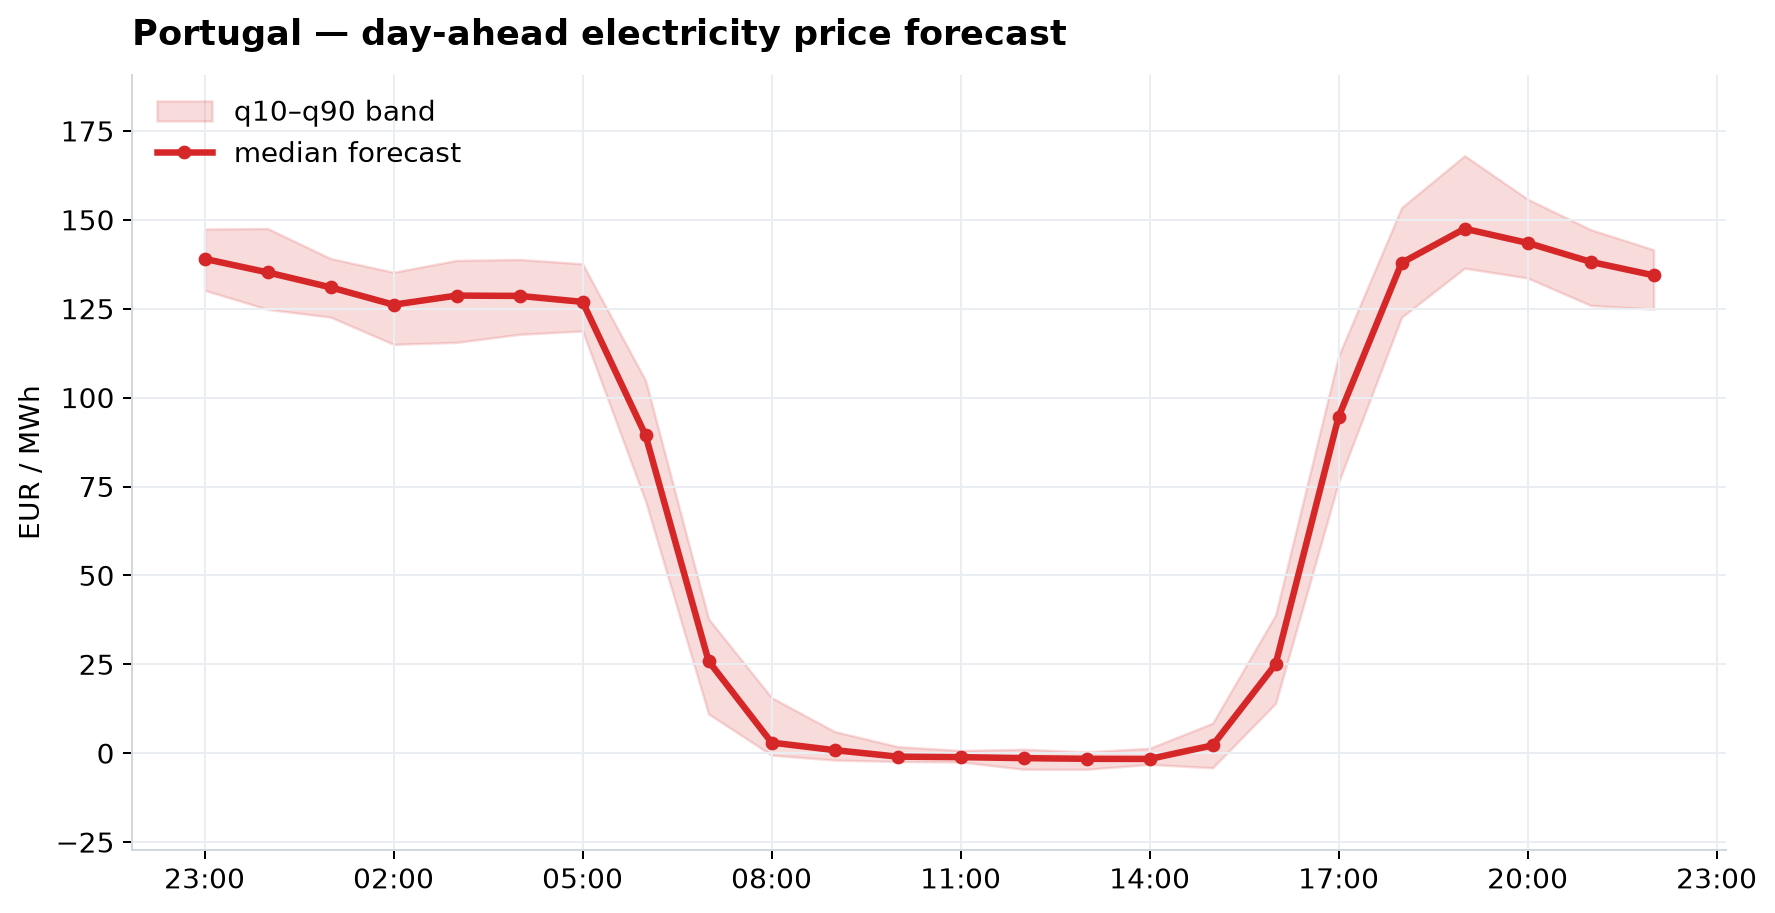
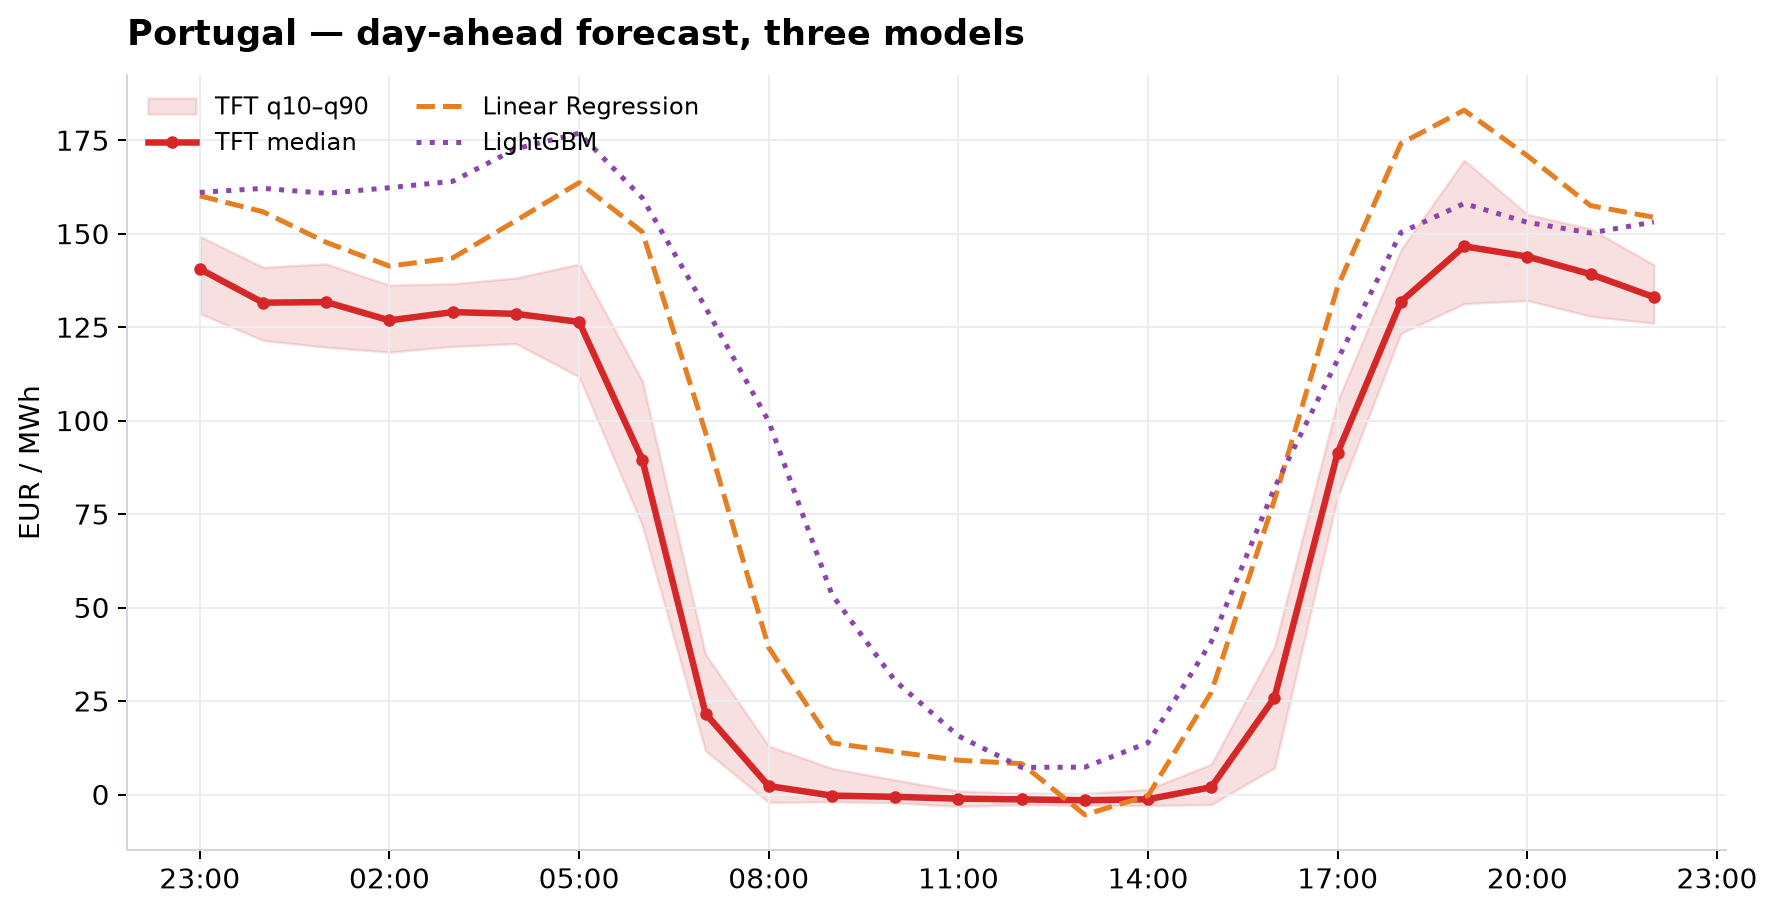
docs: docker section fixes, plot regen with multi-model overlay
- README: compose profiles documented correctly (--profile serve), pinball
  + coverage in the features bullet, /compare model param, covariate note
- docs/plots: per-country three-model overlays (TFT band, LR, LightGBM)
  + all-countries chart, matching the dashboard styling
- .dockerignore: models/, reports/, data/, lightning_logs/ excluded from
  the image (volumes provide them at runtime; 1.3GB off the context)
- docker compose serve profile verified end-to-end: api + dashboard
  containers, all three countries, lr/lgbm/tft forecasts in-container

diff --git a/README.md b/README.md
@@ -31,7 +31,7 @@ Supported out of the box (config-driven — add more in `src/config.py`):
 - **Config-driven countries:** Add a bidding zone by adding one entry to `src/config.py`.
 - **Automated data pipelines:** Fetches live data from the **Energy-Charts API** (EPEX SPOT / ENTSO-E transparency aggregator) and **Open-Meteo**. **No API keys required.**
 - **Deep sequence modeling:** Temporal Fusion Transformer via `darts` + PyTorch, with quantile outputs (10/50/90).
-- **Walk-forward backtesting:** One shared harness (`src/evaluation/backtest.py`) scores every model — naive persistence, Linear Regression, LightGBM, TFT — on identical splits, covariates, and a day-ahead protocol, with MAE/RMSE/rMAE.
+- **Walk-forward backtesting:** One shared harness (`src/evaluation/backtest.py`) scores every model — naive persistence, Linear Regression, LightGBM, TFT — on identical splits, covariates, and a day-ahead protocol, with MAE/RMSE/rMAE plus pinball loss and coverage for the quantile bands.
 - **FastAPI backend:** REST endpoints for single-country forecasts, cross-country comparison, per-country metrics, and price summaries.
 - **Interactive dashboard (Streamlit + Plotly):** forecasts auto-load on open; country + model selection (TFT bands, Linear Regression, LightGBM); hover/zoom charts with click-to-toggle legend; dark mode; three-country comparison and the walk-forward benchmark table.
 
@@ -172,11 +172,17 @@ streamlit run src/api/dashboard.py
 
 #### Option B: Docker Compose
 
+Services are split into profiles: `train` (one-shot, GPU) and `serve` (long-running API + dashboard).
+
 ```bash
-docker-compose up --build
+# One-shot training run (GPU passthrough; downloads data, benchmark, serving bundles):
+docker compose run --rm train
+
+# Serve API (:8000) + dashboard (:8501):
+docker compose --profile serve up api ui
 ```
 
-The UI reads the backend base URL from `API_URL` (defaults to `http://127.0.0.1:8000`; set to `http://api:8000` under Docker).
+Artifacts (`data/`, `models/`, `reports/`) are bind-mounted, so anything `train` produces is visible on the host and to the serving containers. The dashboard reads the backend from `API_URL` (defaults to `http://127.0.0.1:8000`; `http://api:8000` under Docker).
 
 ## 🌐 API reference
 
@@ -186,8 +192,8 @@ All prices are in **EUR/MWh**. The API loads every country model that has artifa
 |----------|-------------|
 | `GET /` | Health check; lists loaded and available countries. |
 | `GET /predict?country=PT&model=tft&target_date=YYYY-MM-DD` | 24h forecast for one country. `model`: `tft` (default; q10/50/90 bands), `lr`, `lgbm` (point forecasts). `target_date` optional (retroactive). |
-| `GET /compare?countries=PT,ES,CH&target_date=YYYY-MM-DD` | Forecasts for multiple countries in one payload, for overlay plots. Countries without a loaded model are reported in `skipped`. |
-| `GET /metrics` | Per-country benchmark metrics (MAE/RMSE/rMAE) parsed from `reports/latest/benchmark_*.txt`. |
+| `GET /compare?countries=PT,ES,CH&model=tft` | Forecasts for multiple countries in one payload, for overlay plots. Accepts `model` like `/predict`; countries without a loaded model are reported in `skipped`. |
+| `GET /metrics` | Per-country benchmark metrics (MAE/RMSE/rMAE) parsed from `reports/latest/benchmark_*.txt`, with the served model flagged. |
 | `GET /summary?countries=PT,ES,CH` | Price-level summary per country: mean/median/min/max forecast price and peak hour. |
 
 Response field names (note the EUR currency):
@@ -214,7 +220,7 @@ Response field names (note the EUR currency):
 - **Per-country models.** Each country gets its own TFT, scalers, and feature table, isolated by a country suffix. This keeps performance per market independent and makes adding a country a config-only change at the data layer.
 - **Multi-horizon forecasting.** The TFT processes a 168-hour (7-day) lookback and directly outputs the 24-hour day-ahead curve in one shot, avoiding auto-regressive error compounding.
 - **Probabilistic forecasting.** Configured with `QuantileRegression`, the model outputs a distribution (10/50/90 percentiles) to quantify uncertainty — important in spike-prone markets.
-- **Hourly normalization.** Download resamples any resolution to hourly so the per-country feature columns are consistent (6 base columns + calendar + cyclic encodings = 17 features).
+- **Hourly normalization + honest covariates.** Download resamples any resolution to hourly so per-country features stay aligned (17 covariates: weather, calendar, cyclic encodings, and load lagged 24h/168h — realized load at forecast time is excluded, it is not knowable at day-ahead gate closure).
 - **Strict covariate separation.** `future_covariates` (weather, calendar) are separated from the target, and scalers are fitted only on the training split to prevent leakage during walk-forward backtesting.
 - **Hardware-agnostic inference.** `trainer_params` are overridden to `accelerator='cpu'` at load time, so GPU-trained models serve on CPU.
 - **Secure deserialization.** `QuantileRegression` and `GlobalTimerCallback` are registered via `torch.serialization.add_safe_globals` for safe unpickling (PyTorch 2.6+ `weights_only` default).
